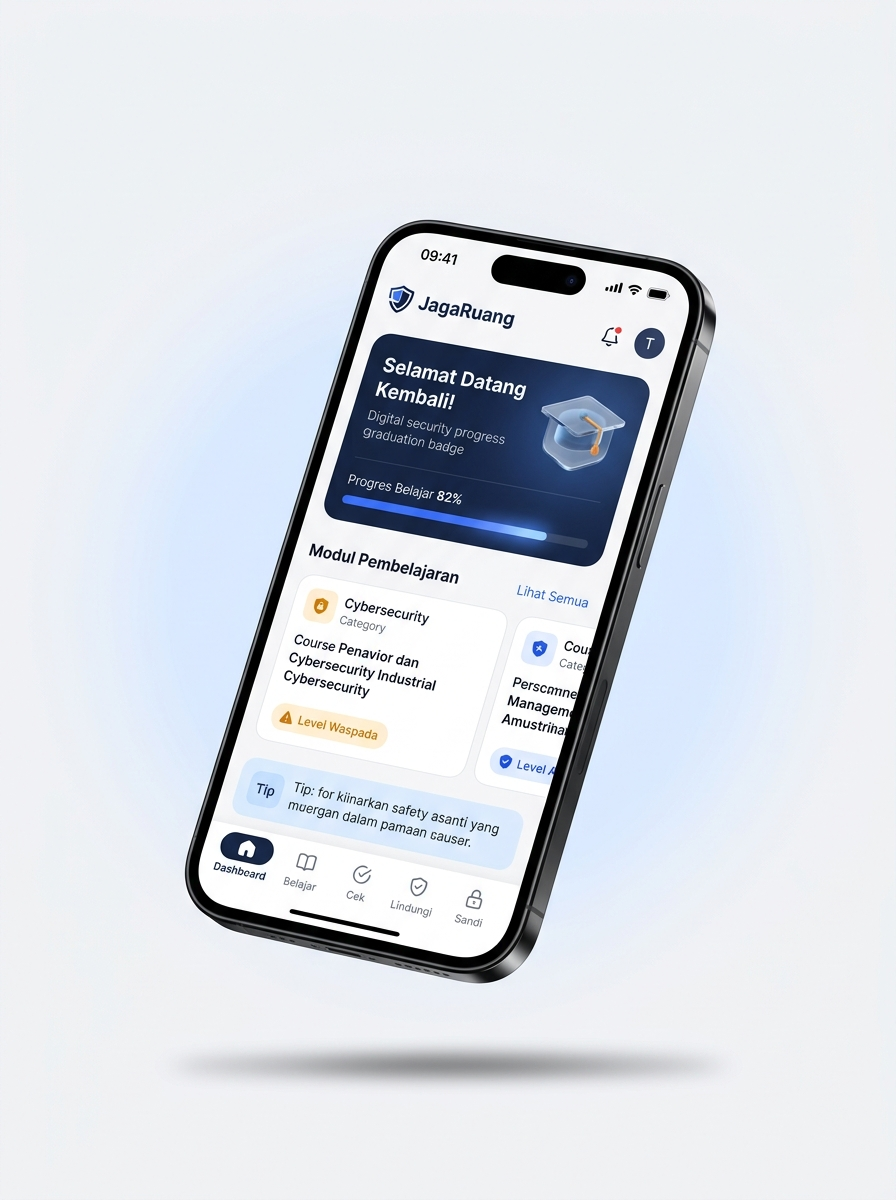
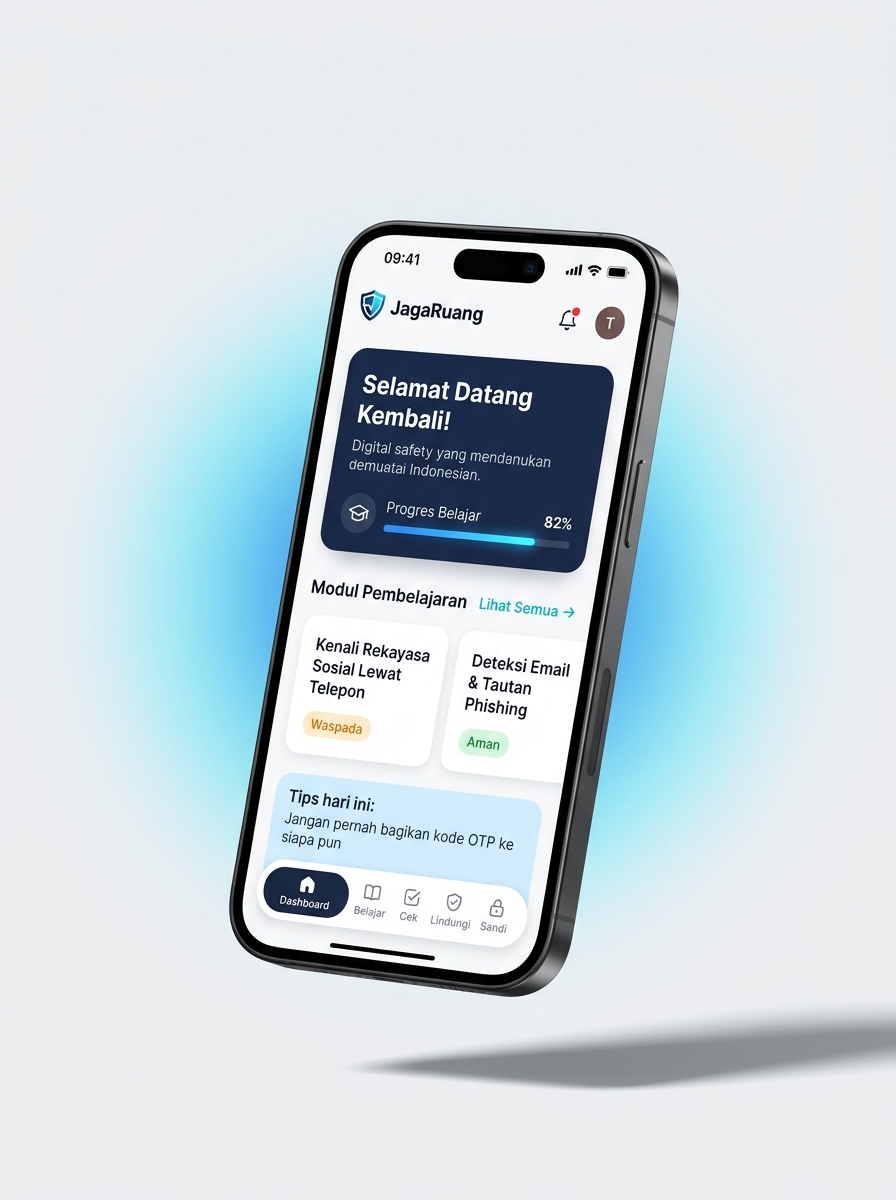
feat: add 3D hero components, navigation layout, and documentation

Changed region(s): [[0.125, 0.185, 0.875, 0.8325], [0.5312, 0.8325, 1.0, 0.925], [0.25, 0.8633, 0.5, 0.925]]

diff --git a/apps/web/src/components/hero3d/IPhone.tsx b/apps/web/src/components/hero3d/IPhone.tsx
@@ -18,16 +18,28 @@ function IPhoneComponent({ scale = 1 }: IPhoneProps) {
   const { colors, dimensions } = HERO_3D_CONFIG;
 
   // Muat tekstur screenshot dashboard mobile
-  const texture = useTexture("/dashboard-screen.png");
+  const texture = useTexture("/dashboard-screen.png", (tex) => {
+    const t = Array.isArray(tex) ? tex[0] : tex;
+    t.colorSpace = THREE.SRGBColorSpace;
+    t.generateMipmaps = true;
+    t.anisotropy = 4;
+    t.wrapS = THREE.ClampToEdgeWrapping;
+    t.wrapT = THREE.ClampToEdgeWrapping;
+  });
 
   useEffect(() => {
     if (texture) {
-      texture.colorSpace = THREE.SRGBColorSpace;
-      texture.generateMipmaps = true;
-      texture.anisotropy = 4;
-      texture.minFilter = THREE.LinearMipmapLinearFilter;
-      texture.magFilter = THREE.LinearFilter;
-      texture.needsUpdate = true;
+      const tex = Array.isArray(texture) ? texture[0] : texture;
+      tex.colorSpace = THREE.SRGBColorSpace;
+      tex.generateMipmaps = true;
+      tex.anisotropy = 4;
+      tex.wrapS = THREE.ClampToEdgeWrapping;
+      tex.wrapT = THREE.ClampToEdgeWrapping;
+      tex.repeat.set(1, 1);
+      tex.offset.set(0, 0);
+      tex.minFilter = THREE.LinearMipmapLinearFilter;
+      tex.magFilter = THREE.LinearFilter;
+      tex.needsUpdate = true;
     }
   }, [texture]);
 
@@ -57,15 +69,17 @@ function IPhoneComponent({ scale = 1 }: IPhoneProps) {
       </RoundedBox>
 
       {/* 3. Bidang Layar HP: Dashboard Mobile JagaRuang (Dimajukan Z & Maksimal Width Layar) */}
-      {texture && (
-        <mesh position={[0, 0, dimensions.phoneDepth / 2 + 0.008]}>
-          <planeGeometry args={[dimensions.screenWidth, dimensions.screenHeight]} />
+      <mesh position={[0, 0, dimensions.phoneDepth / 2 + 0.008]}>
+        <planeGeometry args={[dimensions.screenWidth, dimensions.screenHeight]} />
+        {texture ? (
           <meshBasicMaterial
-            map={texture}
+            map={Array.isArray(texture) ? texture[0] : texture}
             toneMapped={false}
           />
-        </mesh>
-      )}
+        ) : (
+          <meshBasicMaterial color={colors.screenBg} />
+        )}
+      </mesh>
 
       {/* 4. Dynamic Island HORIZONTAL (Floating Item Hitam Horizontal di Atas Layar) */}
       <group position={[0, dimensions.phoneHeight / 2 - 0.24, dimensions.phoneDepth / 2 + 0.016]}>

diff --git a/apps/web/src/components/hero3d/FloatingCards.tsx b/apps/web/src/components/hero3d/FloatingCards.tsx
@@ -48,9 +48,10 @@ function FloatingCardsComponent({ reducedMotion = false }: FloatingCardsProps) {
       {/* =================================================================== */}
       {/* 1. KARTU HIJAU (Kiri Atas / Depan z: 0.7)                           */}
       {/* =================================================================== */}
-      <group ref={card1Ref} position={[-2.35, 1.45, 0.7]} rotation={[0.05, 0.18, -0.04]}>
+      <group ref={card1Ref} position={[-1.95, 1.45, 0.7]} rotation={[0.05, 0.18, -0.04]}>
         <Html
           transform
+          occlude={false}
           scale={0.009}
           distanceFactor={7.5}
           style={{ pointerEvents: "none", userSelect: "none" }}
@@ -77,9 +78,10 @@ function FloatingCardsComponent({ reducedMotion = false }: FloatingCardsProps) {
       {/* =================================================================== */}
       {/* 2. KARTU MERAH (Kanan Bawah / Depan z: 0.85)                         */}
       {/* =================================================================== */}
-      <group ref={card2Ref} position={[2.25, -1.35, 0.85]} rotation={[-0.04, -0.16, 0.04]}>
+      <group ref={card2Ref} position={[1.90, -1.35, 0.85]} rotation={[-0.04, -0.16, 0.04]}>
         <Html
           transform
+          occlude={false}
           scale={0.009}
           distanceFactor={7.5}
           style={{ pointerEvents: "none", userSelect: "none" }}
@@ -106,9 +108,10 @@ function FloatingCardsComponent({ reducedMotion = false }: FloatingCardsProps) {
       {/* =================================================================== */}
       {/* 3. KARTU SLATE-BIRU (Kanan Atas / Belakang z: -0.45)                */}
       {/* =================================================================== */}
-      <group ref={card3Ref} position={[2.2, 1.65, -0.45]} rotation={[0.08, -0.14, -0.02]}>
+      <group ref={card3Ref} position={[1.85, 1.65, -0.45]} rotation={[0.08, -0.14, -0.02]}>
         <Html
           transform
+          occlude={false}
           scale={0.0085}
           distanceFactor={7.5}
           style={{ pointerEvents: "none", userSelect: "none" }}

diff --git a/apps/web/src/components/Layout.tsx b/apps/web/src/components/Layout.tsx
@@ -1,6 +1,8 @@
 import { useState, useEffect, useRef, useMemo } from "react";
 import { NavLink, Outlet, useLocation, useNavigate } from "react-router-dom";
 import {
+  Menu,
+  X,
   LogOut,
   LayoutDashboard,
   Search,
@@ -80,38 +82,35 @@ function getRandomRecommendations(pool: SearchItem[], count = 5): SearchItem[] {
 
 export default function Layout() {
   const { user, isAuthenticated, logout, openLoginModal } = useAuth();
+  const [sidebarOpen, setSidebarOpen] = useState(false);
   const [searchQuery, setSearchQuery] = useState("");
   const [isSearchOpen, setIsSearchOpen] = useState(false);
-  const [isProfileOpen, setIsProfileOpen] = useState(false);
   const [recommendations, setRecommendations] = useState<SearchItem[]>([]);
   const searchContainerRef = useRef<HTMLDivElement>(null);
-  const profileContainerRef = useRef<HTMLDivElement>(null);
   const location = useLocation();
   const navigate = useNavigate();
 
-  // Tutup dropdown search & profile saat rute berpindah
+  // Tutup drawer sidebar mobile & dropdown search saat rute berpindah
   useEffect(() => {
+    setSidebarOpen(false);
     setIsSearchOpen(false);
-    setIsProfileOpen(false);
   }, [location.pathname]);
 
-  // Listener klik di luar search box & profile dropdown
+  // Listener klik di luar search box untuk menutup dropdown rekomendasi
   useEffect(() => {
     const handleClickOutside = (e: MouseEvent) => {
-      const target = e.target as Node;
-      if (searchContainerRef.current && !searchContainerRef.current.contains(target)) {
+      if (searchContainerRef.current && !searchContainerRef.current.contains(e.target as Node)) {
         setIsSearchOpen(false);
-      }
-      if (profileContainerRef.current && !profileContainerRef.current.contains(target)) {
-        setIsProfileOpen(false);
       }
     };
     document.addEventListener("mousedown", handleClickOutside);
     return () => document.removeEventListener("mousedown", handleClickOutside);
   }, []);
 
+  const closeSidebar = () => setSidebarOpen(false);
+
   const handleLogout = () => {
-    setIsProfileOpen(false);
+    closeSidebar();
     logout();
   };
 

diff --git a/apps/web/src/components/hero3d/Orbit.tsx b/apps/web/src/components/hero3d/Orbit.tsx
@@ -49,7 +49,7 @@ function OrbitComponent({ reducedMotion = false }: OrbitProps) {
       rotation={[Math.PI / 3.2, 0.22, Math.PI / 5]}
     >
       {/* 1. Cincin Torus Tipis Tunggal */}
-      <mesh receiveShadow={false} castShadow={false}>
+      <mesh receiveShadow={false} castShadow={false} renderOrder={1}>
         <torusGeometry
           args={[
             dimensions.orbitRadius,
@@ -66,6 +66,7 @@ function OrbitComponent({ reducedMotion = false }: OrbitProps) {
           metalness={0.85}
           transparent
           opacity={0.85}
+          depthWrite={false}
         />
       </mesh>
 

diff --git a/apps/web/src/components/hero3d/hero3d.config.ts b/apps/web/src/components/hero3d/hero3d.config.ts
@@ -45,8 +45,8 @@ export const HERO_3D_CONFIG = {
     phoneHeight: 4.58,
     phoneDepth: 0.30,  // Dimajukan Z-depth agar tampak lebih tebal dan berisi
     cornerRadius: 0.44, // Radius besar untuk sudut membulat iPhone
-    screenWidth: 2.10,  // Lebar maksimal rata layar HP
-    screenHeight: 4.50, // Tinggi proporsional rata layar HP
+    screenWidth: 2.04,  // Bezel 0.07 per sisi
+    screenHeight: 4.44, // Bezel 0.07 atas/bawah
     screenRadius: 0.40, // Mengikuti kelengkungan body
     // Cincin Orbit
     orbitRadius: 1.68,

diff --git a/apps/web/src/components/hero3d/Hero3DCanvas.tsx b/apps/web/src/components/hero3d/Hero3DCanvas.tsx
@@ -89,7 +89,8 @@ export default function Hero3DCanvas() {
   return (
     <div
       ref={containerRef}
-      className="relative w-full h-[460px] sm:h-[520px] lg:h-[580px] flex items-center justify-center overflow-visible select-none"
+      className="relative w-full h-[460px] sm:h-[520px] lg:h-[580px] flex items-center justify-center select-none"
+      style={{ overflow: "visible", isolation: "isolate" }}
       aria-hidden="true"
     >
       <Suspense fallback={<Hero3DFallback />}>

diff --git a/docs/frontend/CHANGELOG.md b/docs/frontend/CHANGELOG.md
@@ -86,8 +86,10 @@ Format: `[versi] tanggal` + perubahan, merujuk ID tugas di [`TASK_GUIDE.md`](TAS
     - Konsep tunggal terpadu: **"iPhone sebagai hero, orbit sebagai aksesori halus"**.
     - **Model Prosedural iPhone 15/16 Pro (`IPhone.tsx`)**: Dibuat 100% secara prosedural dengan material titanium natural (`metalness 0.96`, `roughness 0.26`), layar depan glossy dengan Dynamic Island kapsul, tombol titanium (Action, Volume, Power), kaca frosted belakang, dan modul kamera 3 lensa Pro (outer titanium ring, inner dark bezel, glass lens, True Tone flash, serta LiDAR).
     - **Layar HTML Ultra-Tajam (`<Html transform>`)**: Tampilan antarmuka tajam dengan kontras tinggi (setara 11-12px final) menampilkan 3 elemen fokus: Header JagaRuang Mobile dengan status bar, Kartu Peringatan Kritis merah (`Undangan_Pernikahan.apk`), dan Kartu Status Hijau terverifikasi (`Tautan Aman`).
-    - **Satu Cincin Orbit Halus (`Orbit.tsx`)**: Satu cincin torus tipis berbagi titik pusat sama `[0, 0, 0]` dengan HP, memotong depan dan belakang dengan *depth buffer* akurat (tanpa *clipping bug*), serta partikel bercahaya emerald yang mengitari cincin.
-    - **Kartu Notifikasi Melayang Berkedalaman (`FloatingCards.tsx`)**: 3 kartu notifikasi melayang dengan parallax multi-layer (Tautan Aman hijau, Peringatan Berkas merah, dan Sandi Keluarga slate).
+    - **Satu Cincin Orbit Halus (`Orbit.tsx`)**: Satu cincin torus tipis berbagi titik pusat sama `[0, 0, 0]` dengan HP, memotong depan dan belakang dengan *depth buffer* akurat (`depthWrite={false}` dan `renderOrder={1}` untuk mengatasi clipping menembus phone body), serta partikel bercahaya emerald yang mengitari cincin.
+    - **Kartu Notifikasi Melayang Berkedalaman (`FloatingCards.tsx`)**: 3 kartu notifikasi melayang dengan parallax multi-layer (`occlude={false}` mencegah geometry occlusion) dengan posisi terkoreksi (card1 `[-1.95, 1.45, 0.7]`, card2 `[1.90, -1.35, 0.85]`, card3 `[1.85, 1.65, -0.45]`) agar tetap dalam frustum kamera.
+    - **Optimasi Tekstur Layar & Proporsi Bezel (`IPhone.tsx` & `hero3d.config.ts`)**: Konfigurasi `wrapS`/`wrapT` ke `ClampToEdgeWrapping`, `repeat` dan `offset` tekstur layar dashboard, fallback plane `#DDE6ED` jika tekstur belum tersedia, serta proporsi bezel presisi (`screenWidth: 2.04`, `screenHeight: 4.44` menghasilkan bezel 0.07 per sisi).
+    - **Container Bebas Clipping DOM (`Hero3DCanvas.tsx`)**: Menggunakan `overflow: visible` dan `isolation: isolate` langsung pada container utama tanpa `overflow-hidden` di chain parent.
     - **Pencahayaan Studio & Efek Refleksi (`HeroScene.tsx`)**: Menggunakan `<Lightformer>` prosedural (100% on-device tanpa unduhan eksternal), directional light dengan bayangan halus, serta `<ContactShadows>` di bawah HP.
     - **Interaktivitas & Aksesibilitas**: Animasi `Float` halus, tilt kursor responsif (maks ~15 derajat) dengan lerp damping, kepatuhan `prefers-reduced-motion` untuk pose statis, dan `IntersectionObserver` / visibility listener untuk auto-pause saat di luar layar.
     - **Konfigurasi Terpusat (`hero3d.config.ts`)**: Seluruh parameter visual, kecepatan, dan skala dikumpulkan di satu file konfigurasi.
